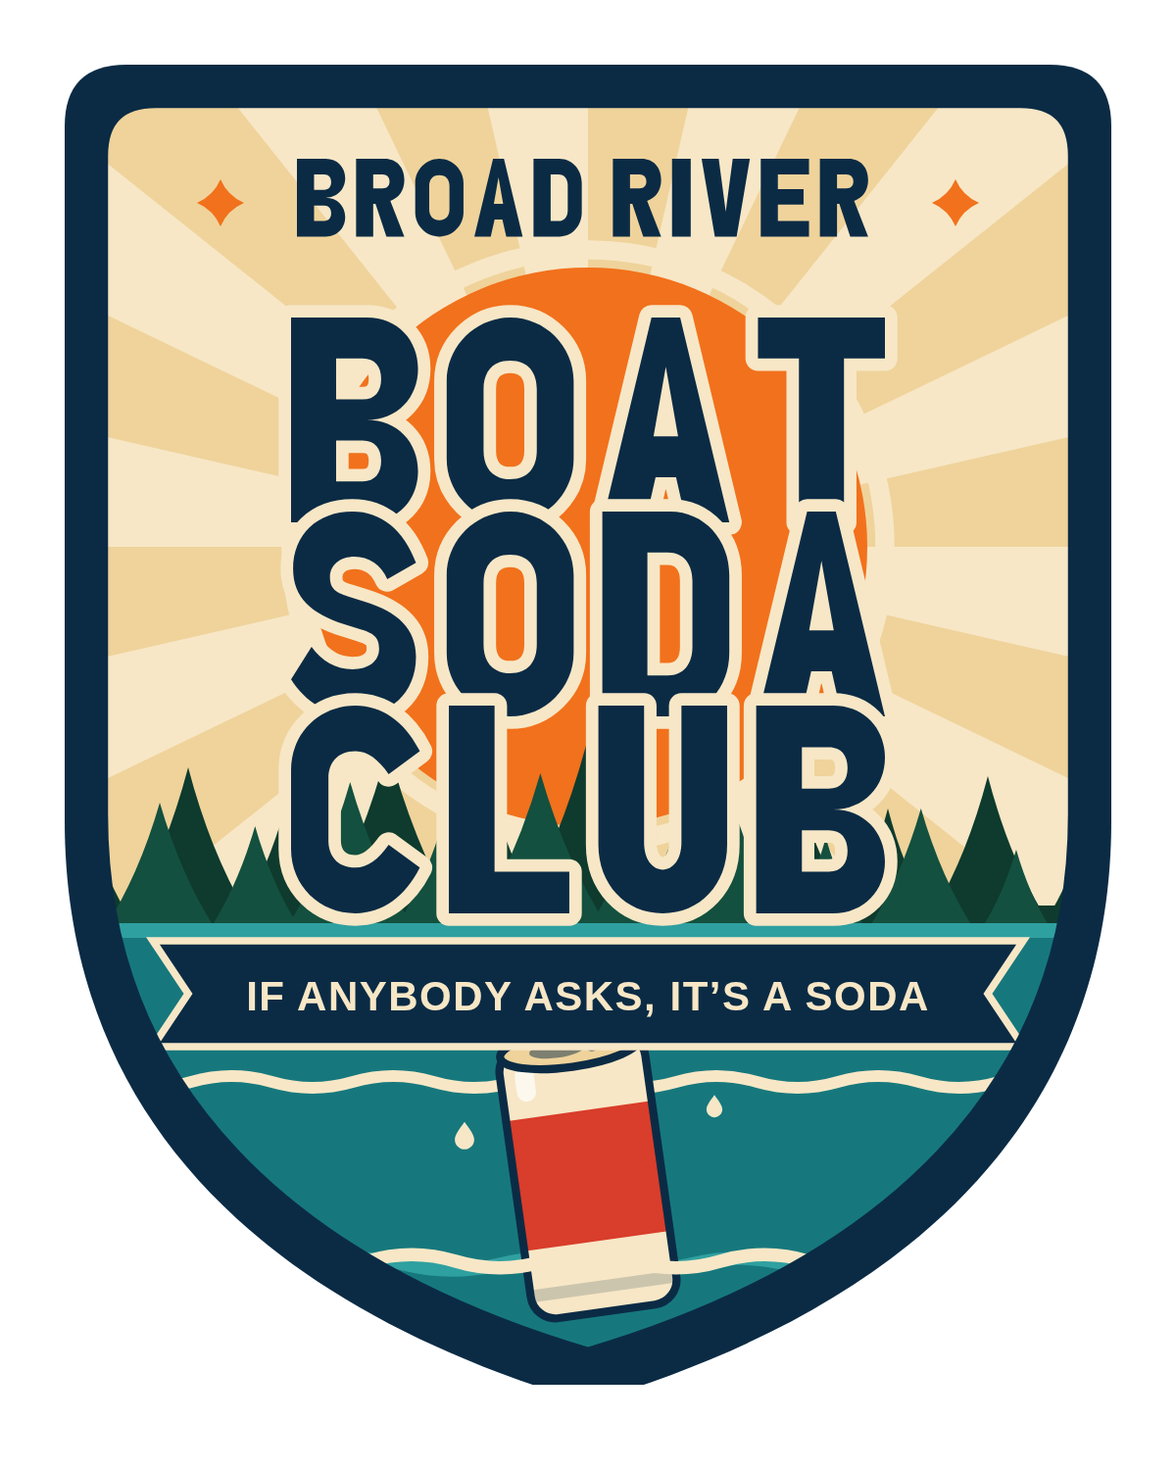
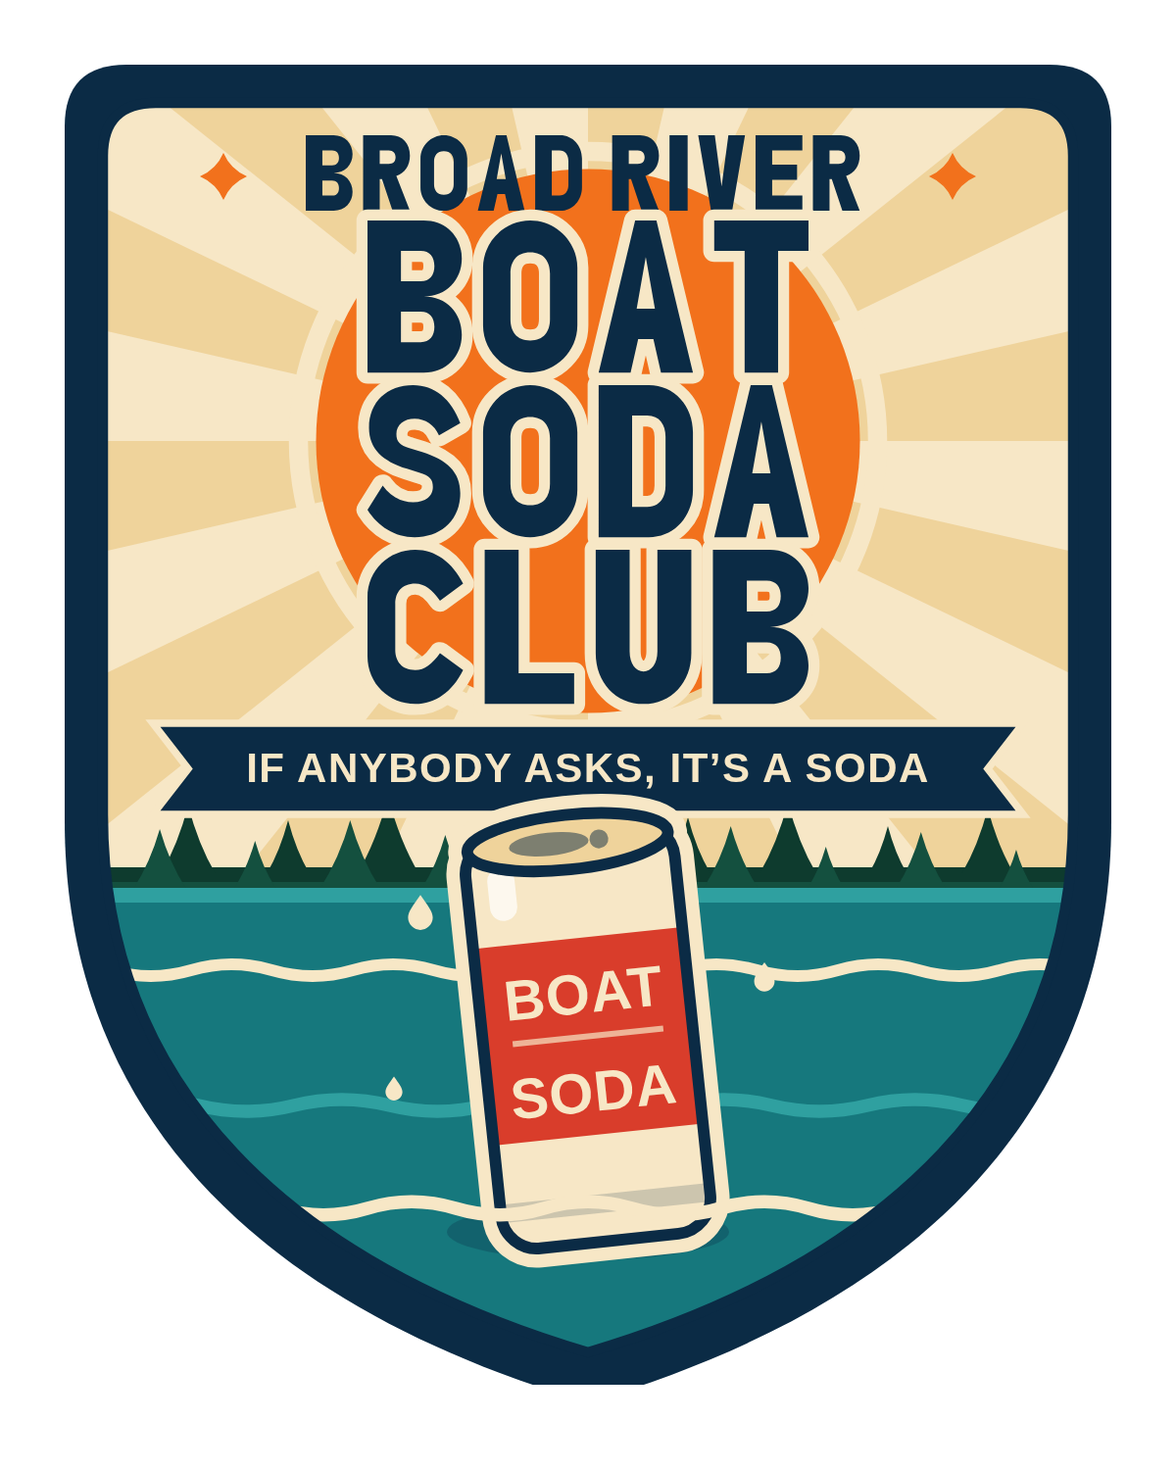
Bring the can forward on the crest
The group picked the crest but wanted the can to stand out, so it is now
the foreground object instead of a detail floating in the water:

- roughly 2.5x the area, standing from the ribbon down to the waterline
- a cream die-cut halo and a cast shadow on the water so it separates
  from the teal instead of sinking into it
- crosses in front of the tagline ribbon's lower edge for depth, with the
  ribbon text left fully clear
- carries the BOAT SODA label, which was previously too small to set

Supporting changes: the stacked wordmark now sets to a fixed cap height
with even leading (the three lines had started to collide), the sun moved
up behind it, and the treeline is shorter so it still reads as a band
between the ribbon and the water rather than hiding behind them.

Claude-Session: https://claude.ai/code/session_01XdAjjZyVqsk8f233NPQ2C9

diff --git a/boat-soda-club/vote-page.html b/boat-soda-club/vote-page.html
@@ -151,6 +151,7 @@
     <ellipse cx="190" cy="742" rx="62" ry="26" fill="#0B2B45" opacity=".55"/>
     <ellipse cx="826" cy="776" rx="54" ry="22" fill="#0B2B45" opacity=".55"/>
     <g transform="translate(500,548) rotate(-7)">
+      
       <rect x="-76.0" y="-161.0" width="152" height="322" rx="25.8" fill="#F7E7C6"/>
       <rect x="-76.0" y="-77.3" width="152" height="154.6" fill="#D93D2B"/>
       <line x1="-54.7" y1="0.0" x2="54.7" y2="0.0" stroke="#F7E7C6" stroke-width="4.3" opacity=".7"/><g font-family="'Arial Black','Helvetica Neue',Helvetica,Arial,sans-serif" font-weight="900" fill="#F7E7C6" text-anchor="middle" font-size="41.0" letter-spacing="0.5"><text x="0" y="-18.5">BOAT</text><text x="0" y="58.7">SODA</text></g>
@@ -207,43 +208,47 @@
   <path d="M86,44 H714 Q756,44 756,86 V558 C756,762 618,890 400,954 C182,890 44,762 44,558 V86 Q44,44 86,44 Z" fill="#0B2B45"/>
   <path d="M106,70 H694 Q730,70 730,106 V554 C730,740 602,860 400,920 C198,860 70,740 70,554 V106 Q70,70 106,70 Z" fill="#F7E7C6"/>
   <g clip-path="url(#b-field)">
-    <g fill="#EFD39B"><path d="M400,372 L400.0,-348.0 L560.2,-329.9 Z"/><path d="M400,372 L712.4,-276.7 L848.9,-190.9 Z"/><path d="M400,372 L962.9,-76.9 L1048.7,59.6 Z"/><path d="M400,372 L1101.9,211.8 L1120.0,372.0 Z"/><path d="M400,372 L1101.9,532.2 L1048.7,684.4 Z"/><path d="M400,372 L962.9,820.9 L848.9,934.9 Z"/><path d="M400,372 L712.4,1020.7 L560.2,1073.9 Z"/><path d="M400,372 L400.0,1092.0 L239.8,1073.9 Z"/><path d="M400,372 L87.6,1020.7 L-48.9,934.9 Z"/><path d="M400,372 L-162.9,820.9 L-248.7,684.4 Z"/><path d="M400,372 L-301.9,532.2 L-320.0,372.0 Z"/><path d="M400,372 L-301.9,211.8 L-248.7,59.6 Z"/><path d="M400,372 L-162.9,-76.9 L-48.9,-190.9 Z"/><path d="M400,372 L87.6,-276.7 L239.8,-329.9 Z"/></g>
-    <circle cx="400" cy="372" r="202" fill="none" stroke="#F7E7C6" stroke-width="13"/>
-    <circle cx="400" cy="372" r="190" fill="#F2711C"/>
-    <rect x="60" y="616" width="680" height="30" fill="#0E3B2E"/><path d="M60.0,556.0 Q69.7,593.1 85.6,620.0 H34.4 Q50.3,593.1 60.0,556.0 Z" fill="#0E3B2E"/><path d="M128.0,522.0 Q142.9,578.8 167.2,620.0 H88.8 Q113.1,578.8 128.0,522.0 Z" fill="#0E3B2E"/><path d="M196.0,542.0 Q207.9,587.2 227.2,620.0 H164.8 Q184.1,587.2 196.0,542.0 Z" fill="#0E3B2E"/><path d="M264.0,508.0 Q281.0,573.0 308.8,620.0 H219.2 Q247.0,573.0 264.0,508.0 Z" fill="#0E3B2E"/><path d="M332.0,532.0 Q345.4,583.0 367.2,620.0 H296.8 Q318.6,583.0 332.0,532.0 Z" fill="#0E3B2E"/><path d="M400.0,502.0 Q417.9,570.4 447.2,620.0 H352.8 Q382.1,570.4 400.0,502.0 Z" fill="#0E3B2E"/><path d="M468.0,536.0 Q480.8,584.7 501.6,620.0 H434.4 Q455.2,584.7 468.0,536.0 Z" fill="#0E3B2E"/><path d="M536.0,516.0 Q551.8,576.3 577.6,620.0 H494.4 Q520.2,576.3 536.0,516.0 Z" fill="#0E3B2E"/><path d="M604.0,550.0 Q614.6,590.6 632.0,620.0 H576.0 Q593.4,590.6 604.0,550.0 Z" fill="#0E3B2E"/><path d="M672.0,528.0 Q686.0,581.4 708.8,620.0 H635.2 Q658.0,581.4 672.0,528.0 Z" fill="#0E3B2E"/><path d="M740.0,558.0 Q749.4,594.0 764.8,620.0 H715.2 Q730.6,594.0 740.0,558.0 Z" fill="#0E3B2E"/>
-    <rect x="44" y="628" width="712" height="30" fill="#14503F"/><path d="M44.0,576.0 Q53.4,608.5 68.6,632.0 H19.4 Q34.6,608.5 44.0,576.0 Z" fill="#14503F"/><path d="M108.7,546.0 Q123.1,595.9 146.6,632.0 H70.9 Q94.3,595.9 108.7,546.0 Z" fill="#14503F"/><path d="M173.5,562.0 Q185.2,602.6 204.3,632.0 H142.7 Q161.8,602.6 173.5,562.0 Z" fill="#14503F"/><path d="M238.2,532.0 Q254.9,590.0 282.2,632.0 H194.2 Q221.5,590.0 238.2,532.0 Z" fill="#14503F"/><path d="M302.9,554.0 Q316.0,599.2 337.2,632.0 H268.6 Q289.9,599.2 302.9,554.0 Z" fill="#14503F"/><path d="M367.6,526.0 Q385.4,587.5 414.3,632.0 H321.0 Q349.9,587.5 367.6,526.0 Z" fill="#14503F"/><path d="M432.4,558.0 Q444.7,600.9 464.9,632.0 H399.8 Q420.0,600.9 432.4,558.0 Z" fill="#14503F"/><path d="M497.1,542.0 Q512.1,594.2 536.7,632.0 H457.5 Q482.0,594.2 497.1,542.0 Z" fill="#14503F"/><path d="M561.8,570.0 Q572.2,606.0 589.1,632.0 H534.5 Q551.5,606.0 561.8,570.0 Z" fill="#14503F"/><path d="M626.5,550.0 Q640.3,597.6 662.6,632.0 H590.5 Q612.8,597.6 626.5,550.0 Z" fill="#14503F"/><path d="M691.3,578.0 Q700.3,609.3 715.0,632.0 H667.5 Q682.2,609.3 691.3,578.0 Z" fill="#14503F"/><path d="M756.0,554.0 Q769.0,599.2 790.3,632.0 H721.7 Q743.0,599.2 756.0,554.0 Z" fill="#14503F"/>
-    <rect x="40" y="628" width="720" height="330" fill="#16787D"/>
-    <rect x="40" y="628" width="720" height="10" fill="#2FA0A0"/>
-    <path d="M-90,736 q27.5,-8 55.0,0 q27.5,8 55.0,0 q27.5,-8 55.0,0 q27.5,8 55.0,0 q27.5,-8 55.0,0 q27.5,8 55.0,0 q27.5,-8 55.0,0 q27.5,8 55.0,0 q27.5,-8 55.0,0 q27.5,8 55.0,0 q27.5,-8 55.0,0 q27.5,8 55.0,0 q27.5,-8 55.0,0 q27.5,8 55.0,0 q27.5,-8 55.0,0 q27.5,8 55.0,0 q27.5,-8 55.0,0 q27.5,8 55.0,0" fill="none" stroke="#F7E7C6" stroke-width="8" stroke-linecap="round"/>
-    <path d="M-50,860 q32.5,-8 65.0,0 q32.5,8 65.0,0 q32.5,-8 65.0,0 q32.5,8 65.0,0 q32.5,-8 65.0,0 q32.5,8 65.0,0 q32.5,-8 65.0,0 q32.5,8 65.0,0 q32.5,-8 65.0,0 q32.5,8 65.0,0 q32.5,-8 65.0,0 q32.5,8 65.0,0 q32.5,-8 65.0,0 q32.5,8 65.0,0 q32.5,-8 65.0,0 q32.5,8 65.0,0" fill="none" stroke="#2FA0A0" stroke-width="9" stroke-linecap="round"/>
-    <g transform="translate(400,800) rotate(-8)">
-      <rect x="-50.0" y="-93.0" width="100" height="186" rx="17.0" fill="#F7E7C6"/>
-      <rect x="-50.0" y="-44.6" width="100" height="89.3" fill="#D93D2B"/>
-      
-      <rect x="-40.0" y="-80.0" width="13.0" height="24.2"
-            rx="6.5" fill="#FFFFFF" opacity=".7"/>
-      <rect x="-50.0" y="71.6" width="100" height="8.4" fill="#0B2B45" opacity=".18"/>
-      <rect x="-50.0" y="-93.0" width="100" height="186" rx="17.0"
-            fill="none" stroke="#0B2B45" stroke-width="5.5"/>
-      <ellipse cx="0" cy="-88.0" rx="48.0" ry="13.0"
-               fill="#EFD39B" stroke="#0B2B45" stroke-width="5.5"/>
-      <ellipse cx="-9.0" cy="-88.0" rx="19.0" ry="5.5"
+    <g fill="#EFD39B"><path d="M400,300 L400.0,-420.0 L560.2,-401.9 Z"/><path d="M400,300 L712.4,-348.7 L848.9,-262.9 Z"/><path d="M400,300 L962.9,-148.9 L1048.7,-12.4 Z"/><path d="M400,300 L1101.9,139.8 L1120.0,300.0 Z"/><path d="M400,300 L1101.9,460.2 L1048.7,612.4 Z"/><path d="M400,300 L962.9,748.9 L848.9,862.9 Z"/><path d="M400,300 L712.4,948.7 L560.2,1001.9 Z"/><path d="M400,300 L400.0,1020.0 L239.8,1001.9 Z"/><path d="M400,300 L87.6,948.7 L-48.9,862.9 Z"/><path d="M400,300 L-162.9,748.9 L-248.7,612.4 Z"/><path d="M400,300 L-301.9,460.2 L-320.0,300.0 Z"/><path d="M400,300 L-301.9,139.8 L-248.7,-12.4 Z"/><path d="M400,300 L-162.9,-148.9 L-48.9,-262.9 Z"/><path d="M400,300 L87.6,-348.7 L239.8,-401.9 Z"/></g>
+    <circle cx="400" cy="300" r="197" fill="none" stroke="#F7E7C6" stroke-width="13"/>
+    <circle cx="400" cy="300" r="185" fill="#F2711C"/>
+    <rect x="60" y="590" width="680" height="30" fill="#0E3B2E"/><path d="M60.0,564.0 Q64.6,581.4 72.0,594.0 H48.0 Q55.4,581.4 60.0,564.0 Z" fill="#0E3B2E"/><path d="M128.0,548.0 Q135.0,574.7 146.4,594.0 H109.6 Q121.0,574.7 128.0,548.0 Z" fill="#0E3B2E"/><path d="M196.0,558.0 Q201.5,578.9 210.4,594.0 H181.6 Q190.5,578.9 196.0,558.0 Z" fill="#0E3B2E"/><path d="M264.0,542.0 Q271.9,572.2 284.8,594.0 H243.2 Q256.1,572.2 264.0,542.0 Z" fill="#0E3B2E"/><path d="M332.0,554.0 Q338.1,577.2 348.0,594.0 H316.0 Q325.9,577.2 332.0,554.0 Z" fill="#0E3B2E"/><path d="M400.0,540.0 Q408.2,571.3 421.6,594.0 H378.4 Q391.8,571.3 400.0,540.0 Z" fill="#0E3B2E"/><path d="M468.0,556.0 Q473.8,578.0 483.2,594.0 H452.8 Q462.2,578.0 468.0,556.0 Z" fill="#0E3B2E"/><path d="M536.0,546.0 Q543.3,573.8 555.2,594.0 H516.8 Q528.7,573.8 536.0,546.0 Z" fill="#0E3B2E"/><path d="M604.0,562.0 Q608.9,580.6 616.8,594.0 H591.2 Q599.1,580.6 604.0,562.0 Z" fill="#0E3B2E"/><path d="M672.0,550.0 Q678.7,575.5 689.6,594.0 H654.4 Q665.3,575.5 672.0,550.0 Z" fill="#0E3B2E"/><path d="M740.0,564.0 Q744.6,581.4 752.0,594.0 H728.0 Q735.4,581.4 740.0,564.0 Z" fill="#0E3B2E"/>
+    <rect x="44" y="600" width="712" height="30" fill="#14503F"/><path d="M44.0,578.0 Q48.3,593.1 55.4,604.0 H32.6 Q39.7,593.1 44.0,578.0 Z" fill="#14503F"/><path d="M108.7,564.0 Q115.4,587.2 126.3,604.0 H91.1 Q102.0,587.2 108.7,564.0 Z" fill="#14503F"/><path d="M173.5,572.0 Q178.8,590.6 187.5,604.0 H159.4 Q168.1,590.6 173.5,572.0 Z" fill="#14503F"/><path d="M238.2,558.0 Q245.9,584.7 258.4,604.0 H217.9 Q230.5,584.7 238.2,558.0 Z" fill="#14503F"/><path d="M302.9,568.0 Q308.9,588.9 318.7,604.0 H287.1 Q296.9,588.9 302.9,568.0 Z" fill="#14503F"/><path d="M367.6,556.0 Q375.7,583.8 388.8,604.0 H346.5 Q359.6,583.8 367.6,556.0 Z" fill="#14503F"/><path d="M432.4,570.0 Q438.0,589.7 447.3,604.0 H417.4 Q426.7,589.7 432.4,570.0 Z" fill="#14503F"/><path d="M497.1,562.0 Q504.1,586.4 515.6,604.0 H478.6 Q490.1,586.4 497.1,562.0 Z" fill="#14503F"/><path d="M561.8,576.0 Q566.5,592.2 574.1,604.0 H549.5 Q557.1,592.2 561.8,576.0 Z" fill="#14503F"/><path d="M626.5,566.0 Q632.9,588.0 643.3,604.0 H609.8 Q620.2,588.0 626.5,566.0 Z" fill="#14503F"/><path d="M691.3,578.0 Q695.6,593.1 702.7,604.0 H679.8 Q686.9,593.1 691.3,578.0 Z" fill="#14503F"/><path d="M756.0,568.0 Q762.0,588.9 771.8,604.0 H740.2 Q750.0,588.9 756.0,568.0 Z" fill="#14503F"/>
+    <rect x="40" y="604" width="720" height="360" fill="#16787D"/>
+    <rect x="40" y="604" width="720" height="10" fill="#2FA0A0"/>
+    <rect x="325.0" y="624.0" width="150" height="9" rx="4.5" fill="#F6A623" opacity="0.90"/><rect x="345.0" y="648.0" width="110" height="8" rx="4.0" fill="#F6A623" opacity="0.79"/><rect x="364.0" y="674.0" width="72" height="7" rx="3.5" fill="#F6A623" opacity="0.68"/>
+    <path d="M-90,660 q27.5,-8 55.0,0 q27.5,8 55.0,0 q27.5,-8 55.0,0 q27.5,8 55.0,0 q27.5,-8 55.0,0 q27.5,8 55.0,0 q27.5,-8 55.0,0 q27.5,8 55.0,0 q27.5,-8 55.0,0 q27.5,8 55.0,0 q27.5,-8 55.0,0 q27.5,8 55.0,0 q27.5,-8 55.0,0 q27.5,8 55.0,0 q27.5,-8 55.0,0 q27.5,8 55.0,0 q27.5,-8 55.0,0 q27.5,8 55.0,0" fill="none" stroke="#F7E7C6" stroke-width="8" stroke-linecap="round"/>
+    <path d="M-60,752 q32.5,-8 65.0,0 q32.5,8 65.0,0 q32.5,-8 65.0,0 q32.5,8 65.0,0 q32.5,-8 65.0,0 q32.5,8 65.0,0 q32.5,-8 65.0,0 q32.5,8 65.0,0 q32.5,-8 65.0,0 q32.5,8 65.0,0 q32.5,-8 65.0,0 q32.5,8 65.0,0 q32.5,-8 65.0,0 q32.5,8 65.0,0 q32.5,-8 65.0,0 q32.5,8 65.0,0" fill="none" stroke="#2FA0A0" stroke-width="9" stroke-linecap="round"/>
+    <path d="M104,492 H696 L672,523 L696,554 H104 L128,523 Z" fill="#0B2B45"/><path d="M104,492 H696 L672,523 L696,554 H104 L128,523 Z" fill="none" stroke="#F7E7C6" stroke-width="5"/><g font-family="'Arial Black','Helvetica Neue',Helvetica,Arial,sans-serif" font-weight="900" fill="#F7E7C6" font-size="28" letter-spacing="1" text-anchor="middle"><text x="400" y="532">IF ANYBODY ASKS, IT&#8217;S A SODA</text></g>
+    <ellipse cx="400" cy="838" rx="96" ry="19" fill="#0B2B45" opacity=".28"/>
+    <g transform="translate(400,705) rotate(-6)">
+      <g fill="#F7E7C6" stroke="#F7E7C6" stroke-width="26" stroke-linejoin="round"><rect x="-71.5" y="-140.0" width="143" height="280" rx="24.3"/><ellipse cx="0" cy="-132.8" rx="68.6" ry="18.6"/></g>
+      <rect x="-71.5" y="-140.0" width="143" height="280" rx="24.3" fill="#F7E7C6"/>
+      <rect x="-71.5" y="-67.2" width="143" height="134.4" fill="#D93D2B"/>
+      <line x1="-51.5" y1="0.0" x2="51.5" y2="0.0" stroke="#F7E7C6" stroke-width="4.0" opacity=".7"/><g font-family="'Arial Black','Helvetica Neue',Helvetica,Arial,sans-serif" font-weight="900" fill="#F7E7C6" text-anchor="middle" font-size="38.6" letter-spacing="0.5"><text x="0" y="-16.1">BOAT</text><text x="0" y="51.1">SODA</text></g>
+      <rect x="-57.2" y="-120.4" width="18.6" height="36.4"
+            rx="9.3" fill="#FFFFFF" opacity=".7"/>
+      <rect x="-71.5" y="107.8" width="143" height="12.6" fill="#0B2B45" opacity=".18"/>
+      <rect x="-71.5" y="-140.0" width="143" height="280" rx="24.3"
+            fill="none" stroke="#0B2B45" stroke-width="7.9"/>
+      <ellipse cx="0" cy="-132.8" rx="68.6" ry="18.6"
+               fill="#EFD39B" stroke="#0B2B45" stroke-width="7.9"/>
+      <ellipse cx="-12.9" cy="-132.8" rx="27.2" ry="7.9"
                fill="#0B2B45" opacity=".5"/>
-      <circle cx="15.0" cy="-88.0" r="4.5" fill="#0B2B45" opacity=".5"/>
+      <circle cx="21.4" cy="-132.8" r="6.4" fill="#0B2B45" opacity=".5"/>
     </g>
-    <path d="M-110,858 q30.0,-9 60.0,0 q30.0,9 60.0,0 q30.0,-9 60.0,0 q30.0,9 60.0,0 q30.0,-9 60.0,0 q30.0,9 60.0,0 q30.0,-9 60.0,0 q30.0,9 60.0,0 q30.0,-9 60.0,0 q30.0,9 60.0,0 q30.0,-9 60.0,0 q30.0,9 60.0,0 q30.0,-9 60.0,0 q30.0,9 60.0,0 q30.0,-9 60.0,0 q30.0,9 60.0,0 q30.0,-9 60.0,0 q30.0,9 60.0,0" fill="none" stroke="#F7E7C6" stroke-width="9" stroke-linecap="round"/>
-    <path transform="translate(316,772) scale(0.55)" fill="#F7E7C6" d="M0,-16 C7,-6 12,0 12,6 C12,13 6,18 0,18 C-6,18 -12,13 -12,6 C-12,0 -7,-6 0,-16 Z"/>
-    <path transform="translate(486,752) scale(0.45)" fill="#F7E7C6" d="M0,-16 C7,-6 12,0 12,6 C12,13 6,18 0,18 C-6,18 -12,13 -12,6 C-12,0 -7,-6 0,-16 Z"/>
-    <path d="M104,640 H696 L672,676 L696,712 H104 L128,676 Z" fill="#0B2B45"/><path d="M104,640 H696 L672,676 L696,712 H104 L128,676 Z" fill="none" stroke="#F7E7C6" stroke-width="5"/><g font-family="'Arial Black','Helvetica Neue',Helvetica,Arial,sans-serif" font-weight="900" fill="#F7E7C6" font-size="28" letter-spacing="1" text-anchor="middle"><text x="400" y="687">IF ANYBODY ASKS, IT&#8217;S A SODA</text></g>
+    <path d="M-110,822 q30.0,-9 60.0,0 q30.0,9 60.0,0 q30.0,-9 60.0,0 q30.0,9 60.0,0 q30.0,-9 60.0,0 q30.0,9 60.0,0 q30.0,-9 60.0,0 q30.0,9 60.0,0 q30.0,-9 60.0,0 q30.0,9 60.0,0 q30.0,-9 60.0,0 q30.0,9 60.0,0 q30.0,-9 60.0,0 q30.0,9 60.0,0 q30.0,-9 60.0,0 q30.0,9 60.0,0 q30.0,-9 60.0,0 q30.0,9 60.0,0" fill="none" stroke="#F7E7C6" stroke-width="9" stroke-linecap="round"/>
+    <path transform="translate(286,620) scale(0.7)" fill="#F7E7C6" d="M0,-16 C7,-6 12,0 12,6 C12,13 6,18 0,18 C-6,18 -12,13 -12,6 C-12,0 -7,-6 0,-16 Z"/>
+    <path transform="translate(520,664) scale(0.58)" fill="#F7E7C6" d="M0,-16 C7,-6 12,0 12,6 C12,13 6,18 0,18 C-6,18 -12,13 -12,6 C-12,0 -7,-6 0,-16 Z"/>
+    <path transform="translate(268,740) scale(0.48)" fill="#F7E7C6" d="M0,-16 C7,-6 12,0 12,6 C12,13 6,18 0,18 C-6,18 -12,13 -12,6 C-12,0 -7,-6 0,-16 Z"/>
   </g>
   <path d="M106,70 H694 Q730,70 730,106 V554 C730,740 602,860 400,920 C198,860 70,740 70,554 V106 Q70,70 106,70 Z" fill="none" stroke="#0B2B45" stroke-width="7"/>
 
-  <g transform="translate(202.00,108.00) scale(0.5294)"><g fill="#0B2B45"><use href="#b-gB" x="0" y="0"/><use href="#b-gR" x="76" y="0"/><use href="#b-gO" x="152" y="0"/><use href="#b-gA" x="228" y="0"/><use href="#b-gD" x="304" y="0"/><use href="#b-gR" x="406" y="0"/><use href="#b-gI" x="482" y="0"/><use href="#b-gV" x="520" y="0"/><use href="#b-gE" x="596" y="0"/><use href="#b-gR" x="672" y="0"/></g></g>
-  <path fill="#F2711C" d="M150,122 Q154.8,133.2 166,138 Q154.8,142.8 150,154 Q145.2,142.8 134,138 Q145.2,133.2 150,122 Z"/>
-  <path fill="#F2711C" d="M650,122 Q654.8,133.2 666,138 Q654.8,142.8 650,154 Q645.2,142.8 634,138 Q645.2,133.2 650,122 Z"/>
-  <g transform="translate(198.00,216.00) scale(1.3931)"><g fill="#F7E7C6" stroke="#F7E7C6" stroke-width="12.20" stroke-linejoin="round"><use href="#b-gB" x="0" y="0"/><use href="#b-gO" x="76" y="0"/><use href="#b-gA" x="152" y="0"/><use href="#b-gT" x="228" y="0"/></g><g fill="#0B2B45"><use href="#b-gB" x="0" y="0"/><use href="#b-gO" x="76" y="0"/><use href="#b-gA" x="152" y="0"/><use href="#b-gT" x="228" y="0"/></g></g>
-  <g transform="translate(198.00,348.00) scale(1.3931)"><g fill="#F7E7C6" stroke="#F7E7C6" stroke-width="12.20" stroke-linejoin="round"><use href="#b-gS" x="0" y="0"/><use href="#b-gO" x="76" y="0"/><use href="#b-gD" x="152" y="0"/><use href="#b-gA" x="228" y="0"/></g><g fill="#0B2B45"><use href="#b-gS" x="0" y="0"/><use href="#b-gO" x="76" y="0"/><use href="#b-gD" x="152" y="0"/><use href="#b-gA" x="228" y="0"/></g></g>
-  <g transform="translate(198.00,480.00) scale(1.4126)"><g fill="#F7E7C6" stroke="#F7E7C6" stroke-width="12.03" stroke-linejoin="round"><use href="#b-gC" x="0" y="0"/><use href="#b-gL" x="76" y="0"/><use href="#b-gU" x="148" y="0"/><use href="#b-gB" x="224" y="0"/></g><g fill="#0B2B45"><use href="#b-gC" x="0" y="0"/><use href="#b-gL" x="76" y="0"/><use href="#b-gU" x="148" y="0"/><use href="#b-gB" x="224" y="0"/></g></g>
+  <g transform="translate(208.00,92.00) scale(0.5134)"><g fill="#0B2B45"><use href="#b-gB" x="0" y="0"/><use href="#b-gR" x="76" y="0"/><use href="#b-gO" x="152" y="0"/><use href="#b-gA" x="228" y="0"/><use href="#b-gD" x="304" y="0"/><use href="#b-gR" x="406" y="0"/><use href="#b-gI" x="482" y="0"/><use href="#b-gV" x="520" y="0"/><use href="#b-gE" x="596" y="0"/><use href="#b-gR" x="672" y="0"/></g></g>
+  <path fill="#F2711C" d="M152,104 Q156.8,115.2 168,120 Q156.8,124.8 152,136 Q147.2,124.8 136,120 Q147.2,115.2 152,104 Z"/>
+  <path fill="#F2711C" d="M648,104 Q652.8,115.2 664,120 Q652.8,124.8 648,136 Q643.2,124.8 632,120 Q643.2,115.2 648,104 Z"/>
+  <g transform="translate(250.00,150.00) scale(1.0345)"><g fill="#F7E7C6" stroke="#F7E7C6" stroke-width="14.50" stroke-linejoin="round"><use href="#b-gB" x="0" y="0"/><use href="#b-gO" x="76" y="0"/><use href="#b-gA" x="152" y="0"/><use href="#b-gT" x="228" y="0"/></g><g fill="#0B2B45"><use href="#b-gB" x="0" y="0"/><use href="#b-gO" x="76" y="0"/><use href="#b-gA" x="152" y="0"/><use href="#b-gT" x="228" y="0"/></g></g>
+  <g transform="translate(250.00,262.00) scale(1.0345)"><g fill="#F7E7C6" stroke="#F7E7C6" stroke-width="14.50" stroke-linejoin="round"><use href="#b-gS" x="0" y="0"/><use href="#b-gO" x="76" y="0"/><use href="#b-gD" x="152" y="0"/><use href="#b-gA" x="228" y="0"/></g><g fill="#0B2B45"><use href="#b-gS" x="0" y="0"/><use href="#b-gO" x="76" y="0"/><use href="#b-gD" x="152" y="0"/><use href="#b-gA" x="228" y="0"/></g></g>
+  <g transform="translate(250.00,374.00) scale(1.0490)"><g fill="#F7E7C6" stroke="#F7E7C6" stroke-width="14.30" stroke-linejoin="round"><use href="#b-gC" x="0" y="0"/><use href="#b-gL" x="76" y="0"/><use href="#b-gU" x="148" y="0"/><use href="#b-gB" x="224" y="0"/></g><g fill="#0B2B45"><use href="#b-gC" x="0" y="0"/><use href="#b-gL" x="76" y="0"/><use href="#b-gU" x="148" y="0"/><use href="#b-gB" x="224" y="0"/></g></g>
 </symbol><symbol id="sk-c" viewBox="0 0 1200 400">
   
   

diff --git a/boat-soda-club/build-artwork.py b/boat-soda-club/build-artwork.py
@@ -132,7 +132,7 @@ def reflection(cx, top, rows, color=GOLD):
                      f'rx="{h/2:.1f}" fill="{color}" opacity="{0.9 - i*0.11:.2f}"/>')
     return "".join(parts)
 
-def tallboy(cx, cy, w=134, h=300, rot=-7, label=True):
+def tallboy(cx, cy, w=134, h=300, rot=-7, label=True, halo=0):
     """The hero can. It is, for the record, a soda."""
     x, y = -w/2, -h/2
     ow = w * 0.055                      # outline weight
@@ -146,7 +146,13 @@ def tallboy(cx, cy, w=134, h=300, rot=-7, label=True):
                f'text-anchor="middle" font-size="{fs:.1f}" letter-spacing="0.5">'
                f'<text x="0" y="{by + bh*0.38:.1f}">BOAT</text>'
                f'<text x="0" y="{by + bh*0.88:.1f}">SODA</text></g>')
+    ring = ""
+    if halo:
+        ring = (f'<g fill="{CREAM}" stroke="{CREAM}" stroke-width="{halo*2}" stroke-linejoin="round">'
+                f'<rect x="{x}" y="{y}" width="{w}" height="{h}" rx="{w*0.17:.1f}"/>'
+                f'<ellipse cx="0" cy="{y+w*0.05:.1f}" rx="{w/2-w*0.02:.1f}" ry="{w*0.13:.1f}"/></g>')
     return f'''<g transform="translate({cx},{cy}) rotate({rot})">
+      {ring}
       <rect x="{x}" y="{y}" width="{w}" height="{h}" rx="{w*0.17:.1f}" fill="{CREAM}"/>
       <rect x="{x}" y="{by:.1f}" width="{w}" height="{bh:.1f}" fill="{CORAL}"/>
       {lbl}
@@ -245,12 +251,12 @@ SH_C = ("M106,70 H694 Q730,70 730,106 V554 C730,740 602,860 400,920 "
         "C198,860 70,740 70,554 V106 Q70,70 106,70 Z")
 
 def crest():
-    shape = "M104,640 H696 L672,676 L696,712 H104 L128,676 Z"
+    shape = "M104,492 H696 L672,523 L696,554 H104 L128,523 Z"
     ribbon = (f'<path d="{shape}" fill="{NAVY}"/>'
               f'<path d="{shape}" fill="none" stroke="{CREAM}" stroke-width="5"/>'
               f'<g font-family="{ARIAL}" font-weight="900" fill="{CREAM}" font-size="28" '
               f'letter-spacing="1" text-anchor="middle">'
-              f'<text x="400" y="687">IF ANYBODY ASKS, IT&#8217;S A SODA</text></g>')
+              f'<text x="400" y="532">IF ANYBODY ASKS, IT&#8217;S A SODA</text></g>')
     write("brbsc-crest-4x5in.svg", f'''<svg xmlns="http://www.w3.org/2000/svg" width="4in" height="5in" viewBox="0 0 800 1000">
   <title>Broad River Boat Soda Club — crest decal</title>
   <desc>Die-cut shield vinyl decal, 4in x 5in including white cut border.</desc>
@@ -262,29 +268,32 @@ def crest():
   <path d="{SH_N}" fill="{NAVY}"/>
   <path d="{SH_C}" fill="{CREAM}"/>
   <g clip-path="url(#field)">
-    {sunburst(400, 372, 720, 28)}
-    <circle cx="400" cy="372" r="202" fill="none" stroke="{CREAM}" stroke-width="13"/>
-    <circle cx="400" cy="372" r="190" fill="{ORANGE}"/>
-    {pines(620, 60, 740, [64,98,78,112,88,118,84,104,70,92,62], PINE_D, 0.40)}
-    {pines(632, 44, 756, [56,86,70,100,78,106,74,90,62,82,54,78], PINE, 0.44)}
-    <rect x="40" y="628" width="720" height="330" fill="{RIVER}"/>
-    <rect x="40" y="628" width="720" height="10" fill="{RIVER_L}"/>
-    {waves(736, 760, CREAM, 8, 8, 110, 20)}
-    {waves(860, 760, RIVER_L, 9, 8, 130, 80)}
-    {tallboy(400, 800, 100, 186, -8, False)}
-    {waves(858, 760, CREAM, 9, 9, 120, 10)}
-    {drop(316, 772, 0.55)}
-    {drop(486, 752, 0.45)}
+    {sunburst(400, 300, 720, 28)}
+    <circle cx="400" cy="300" r="197" fill="none" stroke="{CREAM}" stroke-width="13"/>
+    <circle cx="400" cy="300" r="185" fill="{ORANGE}"/>
+    {pines(594, 60, 740, [30,46,36,52,40,54,38,48,32,44,30], PINE_D, 0.40)}
+    {pines(604, 44, 756, [26,40,32,46,36,48,34,42,28,38,26,36], PINE, 0.44)}
+    <rect x="40" y="604" width="720" height="360" fill="{RIVER}"/>
+    <rect x="40" y="604" width="720" height="10" fill="{RIVER_L}"/>
+    {reflection(400, 624, [(0,150,9),(24,110,8),(50,72,7)])}
+    {waves(660, 760, CREAM, 8, 8, 110, 20)}
+    {waves(752, 760, RIVER_L, 9, 8, 130, 70)}
     {ribbon}
+    <ellipse cx="400" cy="838" rx="96" ry="19" fill="{NAVY}" opacity=".28"/>
+    {tallboy(400, 705, 143, 280, -6, True, 13)}
+    {waves(822, 760, CREAM, 9, 9, 120, 10)}
+    {drop(286, 620, 0.7)}
+    {drop(520, 664, 0.58)}
+    {drop(268, 740, 0.48)}
   </g>
   <path d="{SH_C}" fill="none" stroke="{NAVY}" stroke-width="7"/>
 
-  {setline("BROAD RIVER", 400, 108, 396, NAVY)}
-  {star4(150, 138, 16, ORANGE)}
-  {star4(650, 138, 16, ORANGE)}
-  {setline("BOAT", 400, 216, 404, NAVY, CREAM, 17)}
-  {setline("SODA", 400, 348, 404, NAVY, CREAM, 17)}
-  {setline("CLUB", 400, 480, 404, NAVY, CREAM, 17)}
+  {setline("BROAD RIVER", 400, 92, 384, NAVY)}
+  {star4(152, 120, 16, ORANGE)}
+  {star4(648, 120, 16, ORANGE)}
+  {setline("BOAT", 400, 150, 300, NAVY, CREAM, 15)}
+  {setline("SODA", 400, 262, 300, NAVY, CREAM, 15)}
+  {setline("CLUB", 400, 374, 300, NAVY, CREAM, 15)}
 </svg>
 ''')
 
